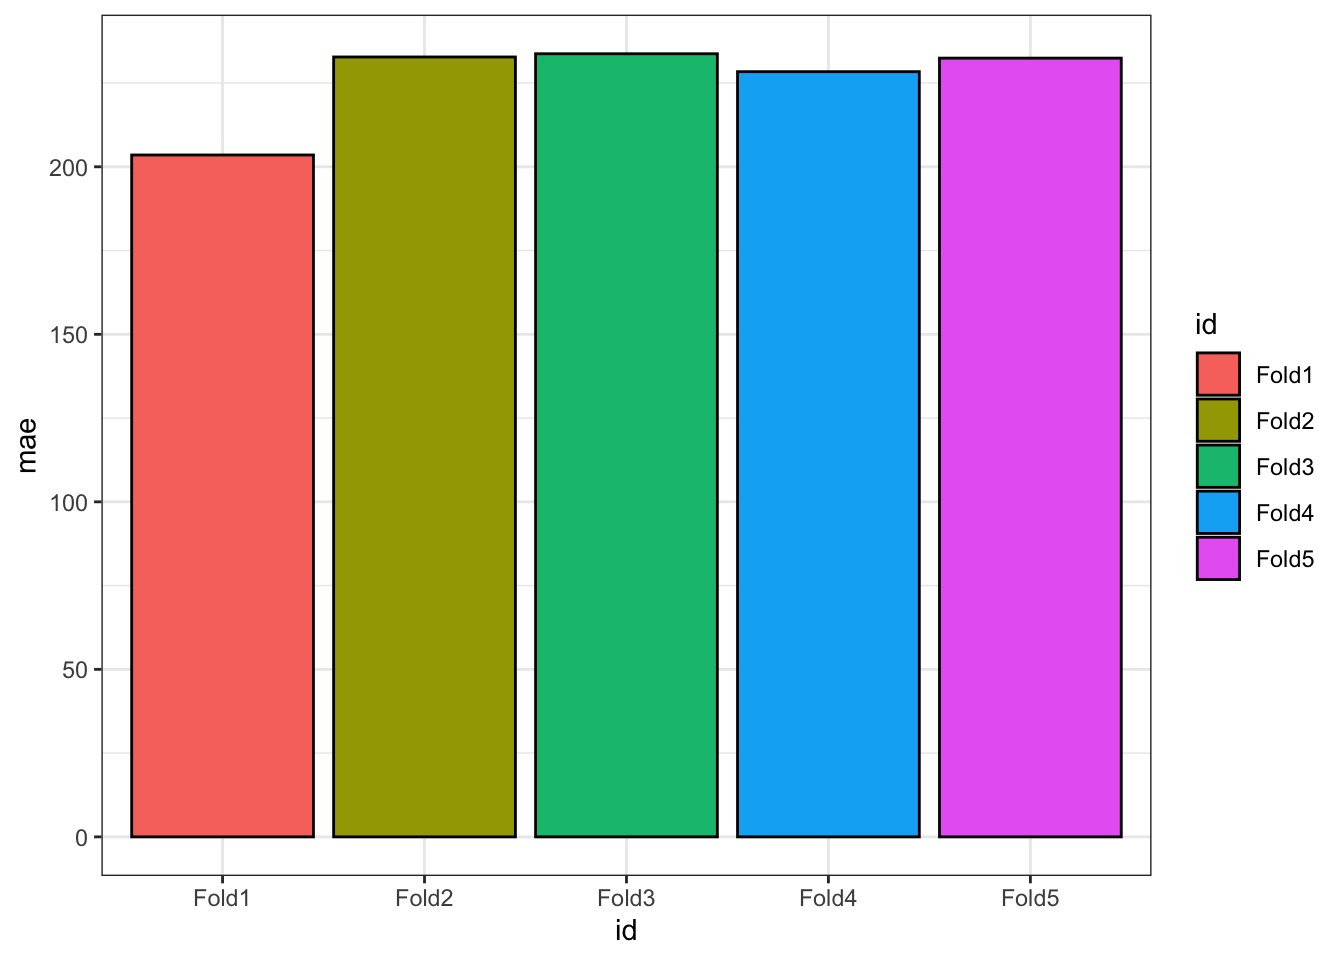
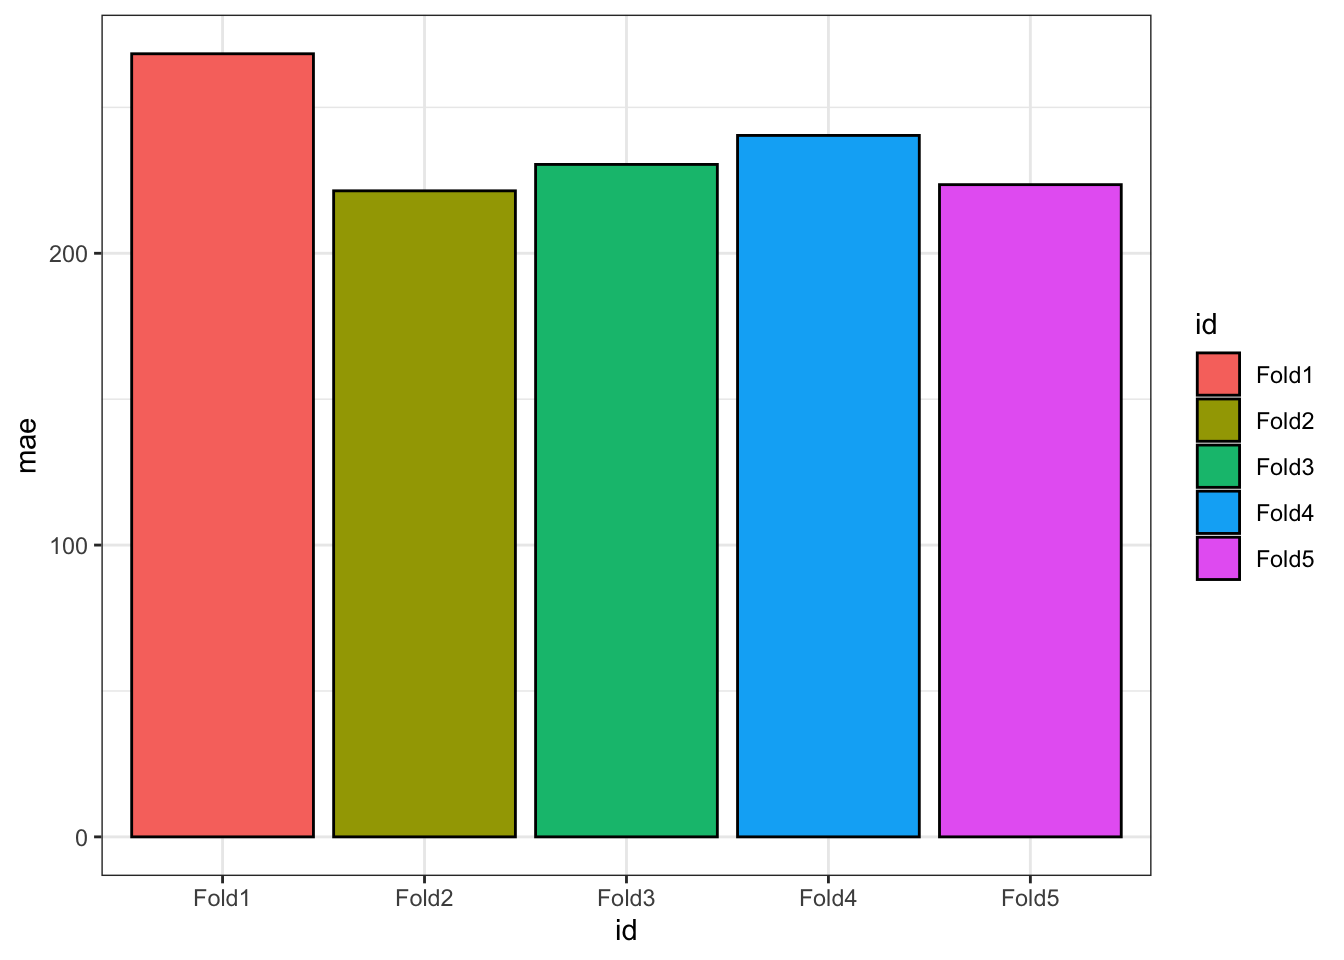
machine

diff --git a/maskinslæring-i-tidyverse.html b/maskinslæring-i-tidyverse.html
@@ -540,8 +540,8 @@ code span.wa { color: #60a0b0; font-weight: bold; font-style: italic; } /* Warni
 <div id="indledning-og-læringsmålene-4" class="section level2 hasAnchor" number="12.1">
 <h2><span class="header-section-number">12.1</span> Indledning og læringsmålene<a href="maskinslæring-i-tidyverse.html#indledning-og-læringsmålene-4" class="anchor-section" aria-label="Anchor link to header"></a></h2>
 <p>Her bliver en lynhurtig introduktion til maskinslæring koncepter - emnet er i virkelighed kæmpe stort og jeg springer over mange detaljer her. Men jeg håber, at det giver en god grundlag/forståelse af den overordnet ramme, og at det kan være med til at øge forståelsen af de mange artikler i biologiske område der benytter maskinslæring modeller, samt motivere dig til at eventuelle tage yderligere kurser i området.</p>
-<p>I emnet i dag introducerer jeg den grundlæggende ramme hvor man udvikler en model på træning data og cross-fold-validation og dernæst vurderer den model på testing data, som ikke var en del af selve træningsprocessen. Jeg inddrager også en classification model, som vi både optimerer (“tune”) og bruger til at forudsige hvem, der overlevede tradgedien på titanic!</p>
-<p>Jeg har bestræbt på at arbejde så vidt som muligt kun indenfor for den tidyverse ramme og sæt funktioner vi allerede har dækket i kurset, som gør det nemmere at forstå mæskingslæring processen uden at blive distraheret af mange nye pakker og funktioner. Processen virker måske lidt indviklet i starten, men generaliserer meget og nemt kan udvides i mange kontekster og situationer - du kan nærmest tage eget data og bare tilpasse min kode fra enten den regression eller classification scenarie nedenunder.</p>
+<p>I emnet i dag introducerer jeg den grundlæggende ramme hvor man udvikler en model på træning data med cross-fold-validation og dernæst vurderer den model på testing data, som ikke var en del af selve træningsprocessen. Jeg inddrager også en classification model, som vi både optimerer (“tune”) og bruger til at forudsige hvem, der overlevede tradgedien på titanic!</p>
+<p>Jeg har bestræbt på at arbejde så vidt som muligt kun indenfor for den tidyverse ramme og sæt funktioner vi allerede har dækket i kurset, som gør det nemmere at forstå mæskingslæring processen uden at blive distraheret af mange nye pakker og funktioner. Processen virker måske lidt indviklet i starten, men generaliseres meget og nemt kan udvides i mange kontekster og situationer - du kan nærmest tage eget data og bare tilpasse min kode fra enten den regression eller classification scenarie nedenunder.</p>
 <!-- En anvendelse af modellen kan være, at hvis der kommer nye observationer, så hvor godt kan vi bruge modellen til at beregne deres vægt? Det kan fortæller også om hvordan målingerne relatere til vægten, samt brugbar i situationer hvor man ikke kender pingviners vægt - mange lignende situationer opstå mange gange i biologi og medicin: -->
 <!-- * Man har målinger om en patient og gerne vil beregne risiko for, at patienten udvikler en bestemt sygdomme ud fra målingerne -->
 <!-- * Man har et billede fk. fra en biopsi og man gerne vil anvende mæskinlærings for at classificere status på patienten. -->
@@ -592,10 +592,9 @@ code span.wa { color: #60a0b0; font-weight: bold; font-style: italic; } /* Warni
 <span id="cb2-2"><a href="maskinslæring-i-tidyverse.html#cb2-2" aria-hidden="true" tabindex="-1"></a>penguins <span class="ot">&lt;-</span> penguins <span class="sc">%&gt;%</span> <span class="fu">drop_na</span>()</span></code></pre></div>
 <div id="oprette-testing-and-training-sets" class="section level3 hasAnchor" number="12.3.1">
 <h3><span class="header-section-number">12.3.1</span> Oprette testing and training sets<a href="maskinslæring-i-tidyverse.html#oprette-testing-and-training-sets" class="anchor-section" aria-label="Anchor link to header"></a></h3>
-<p>Hvordan kan man vide, om en model er god til at forudsige hvad der sker når der kommer nye observationer? Det vil sige, fungerer modellen godt kun i forhold til observationerne som blev brugt til at opbygge selve modellen (så kaldt “overfitting”), eller kan modellen generalises til andre, ligenende situationer? For at vide det kan man overvejer at splitte datasættet før man lave modellen - det vil sige et datasæt som man bruger til at opbygge modellen, og et datasæt som man kan bruge som “nye observationer,” hvor man kan teste, hvor godt modellen egentlig er (fordi i datasættet kender vi faktisk resultatet som vi kan sammenligne med vores forudsigelser fra modellen).</p>
-<p>Pakken <code>rsample</code> fra <code>tidymodels</code> har nogle nyttige funktioner som kan bruges i konteksten af maskinslæring i R, fk. funktionen <code>initial_split</code>:</p>
+<p>Hvordan kan man vide, om en model er god til at forudsige hvad der sker når der kommer nye observationer? Det vil sige, fungerer modellen godt kun i forhold til observationerne som blev brugt til at opbygge selve modellen (så kaldt “overfitting”), eller kan modellen generalises til andre, ligenende situationer? For at vide det kan man overvejer at splitte datasættet før man lave modellen - det vil sige et datasæt som man bruger til at opbygge modellen, og et datasæt som man kan bruge som “nye observationer,” hvor man kan teste, hvor godt modellen egentlig er (fordi i datasættet kender vi faktisk de virkelige værdier som vi kan sammenligne med vores forudsigelser fra modellen).</p>
 <p><img src="plots/machine_step1.png" width="90%" /></p>
-<p>Funktionen <code>intitial_split</code> opdeler datasættet således at fk. 75% af observationerne hører til det “training” sæt og 25% hører til det “testing” sæt:</p>
+<p>Pakken <code>rsample</code> fra <code>tidymodels</code> har funktionen <code>initial_split</code>, der opdeler datasættet således at fk. 75% af observationerne hører til det “training” sæt og 25% hører til det “testing” sæt:</p>
 <div class="sourceCode" id="cb3"><pre class="sourceCode r"><code class="sourceCode r"><span id="cb3-1"><a href="maskinslæring-i-tidyverse.html#cb3-1" aria-hidden="true" tabindex="-1"></a>penguins_split <span class="ot">&lt;-</span> <span class="fu">initial_split</span>(penguins, <span class="at">prop =</span> <span class="fl">0.75</span>)</span>
 <span id="cb3-2"><a href="maskinslæring-i-tidyverse.html#cb3-2" aria-hidden="true" tabindex="-1"></a>penguins_split</span></code></pre></div>
 <pre><code>## &lt;Analysis/Assess/Total&gt;
@@ -607,12 +606,12 @@ code span.wa { color: #60a0b0; font-weight: bold; font-style: italic; } /* Warni
 </div>
 <div id="cross-fold-validation" class="section level3 hasAnchor" number="12.3.2">
 <h3><span class="header-section-number">12.3.2</span> Cross-fold validation<a href="maskinslæring-i-tidyverse.html#cross-fold-validation" class="anchor-section" aria-label="Anchor link to header"></a></h3>
-<p>For at udvikle min model med mit træning datasæt anvender jeg en proces, der hedder “cross-fold-validation.” I 5-fold-cross-validation splitte man et datasæt op i 5 stykker (“folds”). Man træner dernæst en model på 4 af de 5 stykker (folds), og tester på den sidste stykke (som ikke selv var en del af datasætted brugt til at fitte selve modellen). Man gentager model træning processen i alt fem gange, hvor hvert styk er brugt præcis én gang som “valiation” sæt.</p>
+<p>For at udvikle min model med mit træning datasæt anvender jeg “5-cross-fold-validation.” I 5-fold-cross-validation splitte man et datasæt op i 5 stykker (“folds”). Man træner dernæst en model på 4 af de 5 stykker (folds), og tester på den sidste stykke (der ofte kaldes for “validation” sæt, og som ikke selv var en del af datasættet brugte til at fitte selve modellen). Man gentager model “training” processen i alt fem gange, hvor hvert styk er brugt præcis én gang som “valiation” sæt.</p>
 <p><img src="plots/machine_step1_step2.png" width="100%" /></p>
 <p>Tilgangen har mange fordele. Hvis der var for eksempel kun én testing sæt og ved tilfældighed har den sæt observationer som er især nemme at forudsige, så får vi en fejlagtig fornemmelse at modellen er bedre end den er i virkeligheden - vi undgår det vi at bruge 5 forskellige validation sæt som dækker hele træning sæt. Vi kan således lede efter en kommination af parametre, der konsekvent giver en god model over samtlig validation sæt - vi kan være mere sikker på at få en model, der virker godt i vores testing sæt til sidste.</p>
 <!-- * Man kan få en fornemmelse af hvor meget hvors evne til at forudsige på nye data variare afhængig af observatiorene der ligger i enten testing eller træning sæt. -->
 <!-- * Minimire "overfitting" modellen - det vil sige, at modellen er meget godt til at forstå hvad der sker i datasættet men dårlig til at forudsige hvad der forgår med hensyn til nye observationer. -->
-<p>Der er en nem funktion man kan bruge i <code>rsample</code>-pakken, der hedder <code>vfold_cv</code> til at lave cross validation. Her angiver jeg <code>v=5</code> for at viser, jeg gerne vil have 5-fold cross validation.</p>
+<p>Der er en nem funktion man kan bruge i <code>rsample</code>-pakken, der hedder <code>vfold_cv</code> til at lave cross validation. Her angiver jeg <code>v=5</code> for at vise, at jeg gerne vil have 5-folds.</p>
 <div class="sourceCode" id="cb6"><pre class="sourceCode r"><code class="sourceCode r"><span id="cb6-1"><a href="maskinslæring-i-tidyverse.html#cb6-1" aria-hidden="true" tabindex="-1"></a>cv_split <span class="ot">&lt;-</span> <span class="fu">vfold_cv</span>(penguins_training, <span class="at">v =</span> <span class="dv">5</span>)</span>
 <span id="cb6-2"><a href="maskinslæring-i-tidyverse.html#cb6-2" aria-hidden="true" tabindex="-1"></a>cv_split</span></code></pre></div>
 <pre><code>## #  5-fold cross-validation 
@@ -624,7 +623,7 @@ code span.wa { color: #60a0b0; font-weight: bold; font-style: italic; } /* Warni
 ## 3 &lt;split [199/50]&gt; Fold3
 ## 4 &lt;split [199/50]&gt; Fold4
 ## 5 &lt;split [200/49]&gt; Fold5</code></pre>
-<p>Så kan man se, at vi får en dataframe med 5 datasæt som er lagret i kolonnen <code>splits</code>. Jeg vil gerne udtrække de forskellige træning og testing sæt ud i deres egne kolonner, som i følgende med <code>map</code> indenfor <code>mutate</code>:</p>
+<p>Så kan man se, at vi får en dataframe med 5 datasæt som er lagret i kolonnen <code>splits</code>. Jeg vil gerne udtrække de forskellige “training” og “testing”(/“validate”) sæt ud i deres egne kolonner, som i følgende med <code>map</code> indenfor <code>mutate</code>:</p>
 <div class="sourceCode" id="cb8"><pre class="sourceCode r"><code class="sourceCode r"><span id="cb8-1"><a href="maskinslæring-i-tidyverse.html#cb8-1" aria-hidden="true" tabindex="-1"></a>cv_data <span class="ot">&lt;-</span> cv_split <span class="sc">%&gt;%</span> </span>
 <span id="cb8-2"><a href="maskinslæring-i-tidyverse.html#cb8-2" aria-hidden="true" tabindex="-1"></a>  <span class="fu">mutate</span>(</span>
 <span id="cb8-3"><a href="maskinslæring-i-tidyverse.html#cb8-3" aria-hidden="true" tabindex="-1"></a>    <span class="at">train =</span> <span class="fu">map</span>(splits, <span class="sc">~</span>.x <span class="sc">%&gt;%</span> training), <span class="co">#extract training datasets</span></span>
@@ -643,8 +642,8 @@ code span.wa { color: #60a0b0; font-weight: bold; font-style: italic; } /* Warni
 </div>
 <div id="bygge-modellen-og-lave-forudsigelser" class="section level3 hasAnchor" number="12.3.3">
 <h3><span class="header-section-number">12.3.3</span> Bygge modellen og lave forudsigelser<a href="maskinslæring-i-tidyverse.html#bygge-modellen-og-lave-forudsigelser" class="anchor-section" aria-label="Anchor link to header"></a></h3>
-<p>Vi vil gerne lave en model på alle vores datasæt i kolonnen <code>train</code> hver for sig, og forudgsige <code>body_mass_g</code> i hvert tilknyttet validation sæt. Vi kan gøre det med en custom funktion med <code>purrr</code>-pakken.</p>
-<div class="sourceCode" id="cb10"><pre class="sourceCode r"><code class="sourceCode r"><span id="cb10-1"><a href="maskinslæring-i-tidyverse.html#cb10-1" aria-hidden="true" tabindex="-1"></a>my_lm_func <span class="ot">&lt;-</span> <span class="er">~</span><span class="fu">lm</span>(<span class="at">formula =</span> body_mass_g <span class="sc">~</span> ., <span class="at">data =</span> .x)</span>
+<p>Vi vil gerne lave en model på alle vores datasæt i kolonnen <code>train</code> hver for sig, og forudgsige <code>body_mass_g</code> i hvert tilknyttet validation sæt. Vi kan gøre det med en custom funktion som i følgende:</p>
+<div class="sourceCode" id="cb10"><pre class="sourceCode r"><code class="sourceCode r"><span id="cb10-1"><a href="maskinslæring-i-tidyverse.html#cb10-1" aria-hidden="true" tabindex="-1"></a>my_lm_func <span class="ot">&lt;-</span> <span class="er">~</span><span class="fu">lm</span>(body_mass_g <span class="sc">~</span> ., <span class="at">data =</span> .x) <span class="co"># . betyder alle variabler i .x er uafhængige untaget body_mass_g</span></span>
 <span id="cb10-2"><a href="maskinslæring-i-tidyverse.html#cb10-2" aria-hidden="true" tabindex="-1"></a></span>
 <span id="cb10-3"><a href="maskinslæring-i-tidyverse.html#cb10-3" aria-hidden="true" tabindex="-1"></a>cv_models_lm <span class="ot">&lt;-</span> cv_data <span class="sc">%&gt;%</span> </span>
 <span id="cb10-4"><a href="maskinslæring-i-tidyverse.html#cb10-4" aria-hidden="true" tabindex="-1"></a>  <span class="fu">mutate</span>(<span class="at">model =</span> <span class="fu">map</span>(train, my_lm_func))</span>
@@ -662,8 +661,8 @@ code span.wa { color: #60a0b0; font-weight: bold; font-style: italic; } /* Warni
 <p>Nu vil vi gerne bruge datasættet i kolonnen <code>validate</code> til at lave en forudsigelse til hver af vores modeller. Til det formål kan man bruge funktionen <code>predict()</code> - man tager en model samt et nye datasæt (dvs. tilsvarende datasæt i kolonne validate), og så få nogle forventede <code>body_mass_g</code> værdier ud fra modellen anvendte på de nye data. I følgende bliver disse forventede “predicted” værdier til <code>body_mass_g</code> lagret i kolonnen <code>validate_predicted</code>. Da vi faktisk vide de virkelige værdier til <code>body_mass_g</code> i vores validation datasæt laver jeg også en kolonne <code>validate_actual</code> som er disse virkelige værdier, som jeg kan sammenligne med mine forventede værdier.</p>
 <div class="sourceCode" id="cb12"><pre class="sourceCode r"><code class="sourceCode r"><span id="cb12-1"><a href="maskinslæring-i-tidyverse.html#cb12-1" aria-hidden="true" tabindex="-1"></a>cv_prep_lm <span class="ot">&lt;-</span> cv_models_lm <span class="sc">%&gt;%</span> </span>
 <span id="cb12-2"><a href="maskinslæring-i-tidyverse.html#cb12-2" aria-hidden="true" tabindex="-1"></a>  <span class="fu">mutate</span>(</span>
-<span id="cb12-3"><a href="maskinslæring-i-tidyverse.html#cb12-3" aria-hidden="true" tabindex="-1"></a>    <span class="at">actual_mass =</span> <span class="fu">map</span>(validate, <span class="sc">~</span>.x <span class="sc">%&gt;%</span> <span class="fu">pull</span>(body_mass_g)), <span class="co">#actual body_mass_g values</span></span>
-<span id="cb12-4"><a href="maskinslæring-i-tidyverse.html#cb12-4" aria-hidden="true" tabindex="-1"></a>    <span class="at">predicted_mass =</span> <span class="fu">map2</span>(<span class="at">.x =</span> model, <span class="at">.y =</span> validate, <span class="sc">~</span><span class="fu">predict</span>(.x, .y)) <span class="co">#predicted body_mass_g values</span></span>
+<span id="cb12-3"><a href="maskinslæring-i-tidyverse.html#cb12-3" aria-hidden="true" tabindex="-1"></a>    <span class="at">actual_mass =</span> <span class="fu">map</span>(validate, <span class="sc">~</span>.x <span class="sc">%&gt;%</span> <span class="fu">pull</span>(body_mass_g)), <span class="co">#actual body_mass_g values for validation set</span></span>
+<span id="cb12-4"><a href="maskinslæring-i-tidyverse.html#cb12-4" aria-hidden="true" tabindex="-1"></a>    <span class="at">predicted_mass =</span> <span class="fu">map2</span>(<span class="at">.x =</span> model, <span class="at">.y =</span> validate, <span class="sc">~</span><span class="fu">predict</span>(.x, .y)) <span class="co">#predicted body_mass_g values for validation set</span></span>
 <span id="cb12-5"><a href="maskinslæring-i-tidyverse.html#cb12-5" aria-hidden="true" tabindex="-1"></a>  )</span></code></pre></div>
 </div>
 <div id="vurdere-resultater-på-validation-sæt" class="section level3 hasAnchor" number="12.3.4">
@@ -673,7 +672,7 @@ code span.wa { color: #60a0b0; font-weight: bold; font-style: italic; } /* Warni
 <p>Til hver af de fem folds bregener jeg statisttiken “mean absolute error” der tager afstanden mellem de forventede værdier (<code>predicted_mass</code>) og virkelige værdier (<code>actual_mass</code>) og tager dernæst middelværdien (over deres absolute værdier dvs. uden minus tegn). Jo mindre “mae” er, jo bedre modellen ser ud.</p>
 <div class="sourceCode" id="cb14"><pre class="sourceCode r"><code class="sourceCode r"><span id="cb14-1"><a href="maskinslæring-i-tidyverse.html#cb14-1" aria-hidden="true" tabindex="-1"></a><span class="co">#smaller mae = better model</span></span>
 <span id="cb14-2"><a href="maskinslæring-i-tidyverse.html#cb14-2" aria-hidden="true" tabindex="-1"></a>mae_df <span class="ot">&lt;-</span> prediction_df <span class="sc">%&gt;%</span> <span class="fu">group_by</span>(id) <span class="sc">%&gt;%</span> <span class="fu">summarise</span>(<span class="st">&quot;mae&quot;</span> <span class="ot">=</span> <span class="fu">mean</span>(<span class="fu">abs</span>(actual_mass<span class="sc">-</span>predicted_mass)))</span></code></pre></div>
-<p>Her er et plot af statistikken “mae” til de forskellige folds. I gennemsnit er det 226.1695699, der betyder at vores forudsigelser er ude/forkert ved knap 300 g i gennemsnit - ikke dårligt når den gennemsnits pingvin vejer 4207.06 g.</p>
+<p>Her er et plot af statistikken “mae” til de forskellige folds. I gennemsnit er det 236.8296021, der betyder at vores forudsigelser er ude/forkert ved knap 300 g i gennemsnit - ikke dårligt når den gennemsnits pingvin vejer 4207.06 g.</p>
 <div class="sourceCode" id="cb15"><pre class="sourceCode r"><code class="sourceCode r"><span id="cb15-1"><a href="maskinslæring-i-tidyverse.html#cb15-1" aria-hidden="true" tabindex="-1"></a>mae_df <span class="sc">%&gt;%</span> </span>
 <span id="cb15-2"><a href="maskinslæring-i-tidyverse.html#cb15-2" aria-hidden="true" tabindex="-1"></a>  <span class="fu">ggplot</span>(<span class="fu">aes</span>(<span class="at">y=</span>mae,<span class="at">x=</span>id,<span class="at">fill=</span>id)) <span class="sc">+</span> </span>
 <span id="cb15-3"><a href="maskinslæring-i-tidyverse.html#cb15-3" aria-hidden="true" tabindex="-1"></a>  <span class="fu">geom_bar</span>(<span class="at">stat=</span><span class="st">&quot;identity&quot;</span>,<span class="at">colour=</span><span class="st">&quot;black&quot;</span>) <span class="sc">+</span> </span>
@@ -684,7 +683,7 @@ code span.wa { color: #60a0b0; font-weight: bold; font-style: italic; } /* Warni
 <h3><span class="header-section-number">12.3.5</span> Teste og evaluere “final” model<a href="maskinslæring-i-tidyverse.html#teste-og-evaluere-final-model" class="anchor-section" aria-label="Anchor link to header"></a></h3>
 <p>Vi har lavet forudsigelser over de forskellige stykker i vores træning sæt, men vi har ikke endnu lavet forudsigelser på vores testing sæt <code>penguins_test</code>, som blev holdt ud af hele træningsprocessen. Efter den cross-validation proces skal man lave en “final” model, der bruger samtlige training data på én gang (dvs. ikke bare en enkel fold, der vi gerne vil opbygge den endelige model fra så meget data, som muligt. Bemærk at når det er kun et datasæt, behøver vi ikke at bruge en custom funktion.</p>
 <div class="sourceCode" id="cb16"><pre class="sourceCode r"><code class="sourceCode r"><span id="cb16-1"><a href="maskinslæring-i-tidyverse.html#cb16-1" aria-hidden="true" tabindex="-1"></a>model_final <span class="ot">&lt;-</span> <span class="fu">lm</span>(body_mass_g <span class="sc">~</span> ., <span class="at">data =</span> penguins_training)</span></code></pre></div>
-<p>Nu kan vi endelige anvende vores testing data: her anvender jeg min “final model” til at forudsige <code>body_mass_g</code> på pingvinerne i datasættet <code>penguins_test</code>. Dernæst sammenligner vi vores forudsigelser med den virkelige værdier ligesom i ovenstående (men her har jeg ikke forskellige folds at tage i betragtning).</p>
+<p>Nu kan vi endelige anvende vores testing data (som vi holdt ud før cross-validaiton processen): her anvender jeg min “final model” til at forudsige <code>body_mass_g</code> på pingvinerne i datasættet <code>penguins_test</code>. Dernæst sammenligner vi vores forudsigelser med den virkelige værdier ligesom i ovenstående (men her har jeg ikke forskellige folds at tage i betragtning).</p>
 <div class="sourceCode" id="cb17"><pre class="sourceCode r"><code class="sourceCode r"><span id="cb17-1"><a href="maskinslæring-i-tidyverse.html#cb17-1" aria-hidden="true" tabindex="-1"></a>prediction_df <span class="ot">&lt;-</span> <span class="fu">tibble</span>(<span class="st">&quot;actual_mass&quot;</span><span class="ot">=</span>penguins_test <span class="sc">%&gt;%</span> <span class="fu">pull</span>(body_mass_g),</span>
 <span id="cb17-2"><a href="maskinslæring-i-tidyverse.html#cb17-2" aria-hidden="true" tabindex="-1"></a>                       <span class="st">&quot;predicted_mass&quot;</span><span class="ot">=</span><span class="fu">predict</span>(model_final,penguins_test))</span>
 <span id="cb17-3"><a href="maskinslæring-i-tidyverse.html#cb17-3" aria-hidden="true" tabindex="-1"></a></span>
@@ -692,8 +691,8 @@ code span.wa { color: #60a0b0; font-weight: bold; font-style: italic; } /* Warni
 <pre><code>## # A tibble: 1 × 1
 ##     mae
 ##   &lt;dbl&gt;
-## 1  248.</code></pre>
-<p>Man kan se, at vores final model lave forudsigelser som er i gennemsnit 247.6g væk fra pingvinernes virkelige vægt (det vil sige, at forudsigelsen kan være over eller under den virkelige værdi, men i gennemsnit er afstanden fra den virkelige værdi 230g).</p>
+## 1  225.</code></pre>
+<p>Man kan se, at vores final model lave forudsigelser som er i gennemsnit 224.7g væk fra pingvinernes virkelige vægt (det vil sige, at forudsigelsen kan være over eller under den virkelige værdi, men i gennemsnit er afstanden fra den virkelige værdi 230g).</p>
 </div>
 </div>
 <div id="classification-models" class="section level2 hasAnchor" number="12.4">
